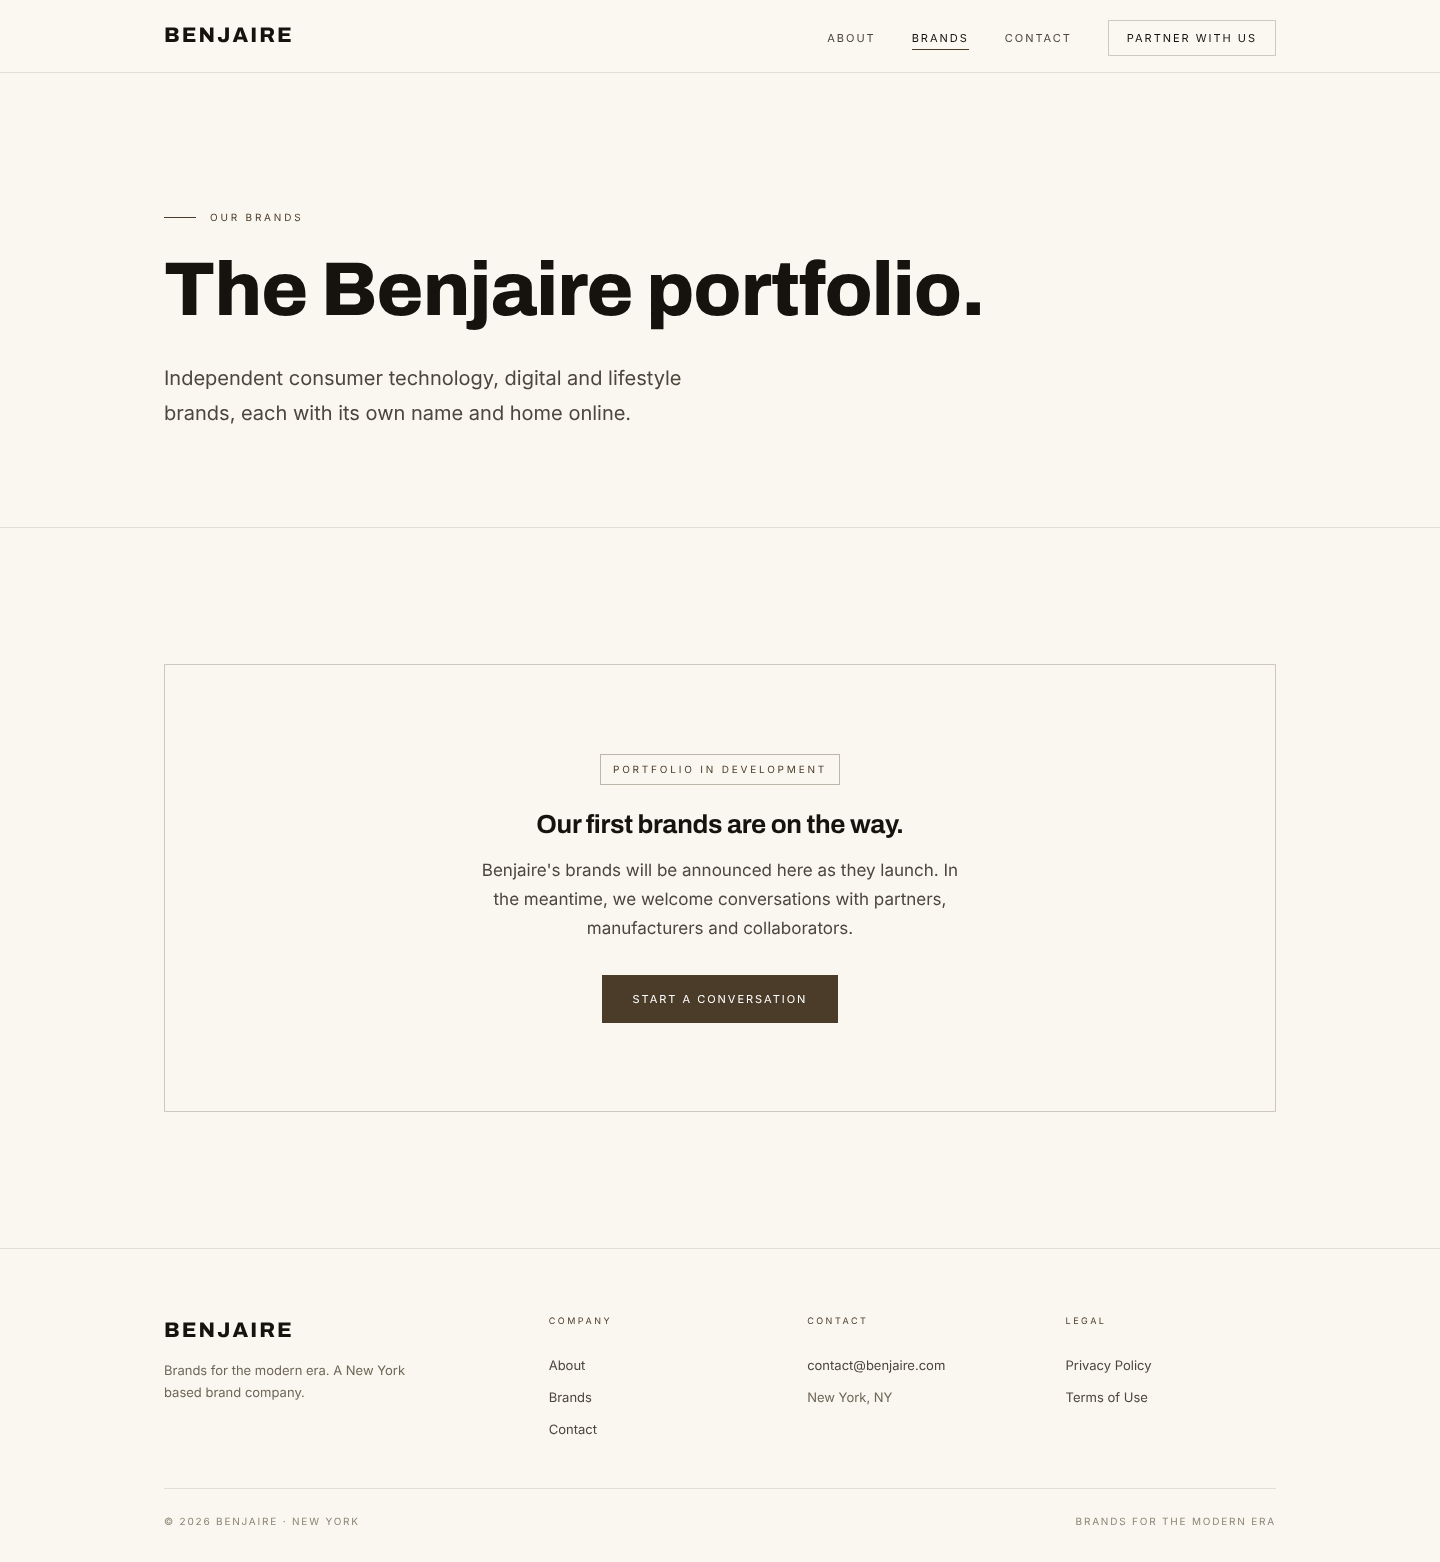
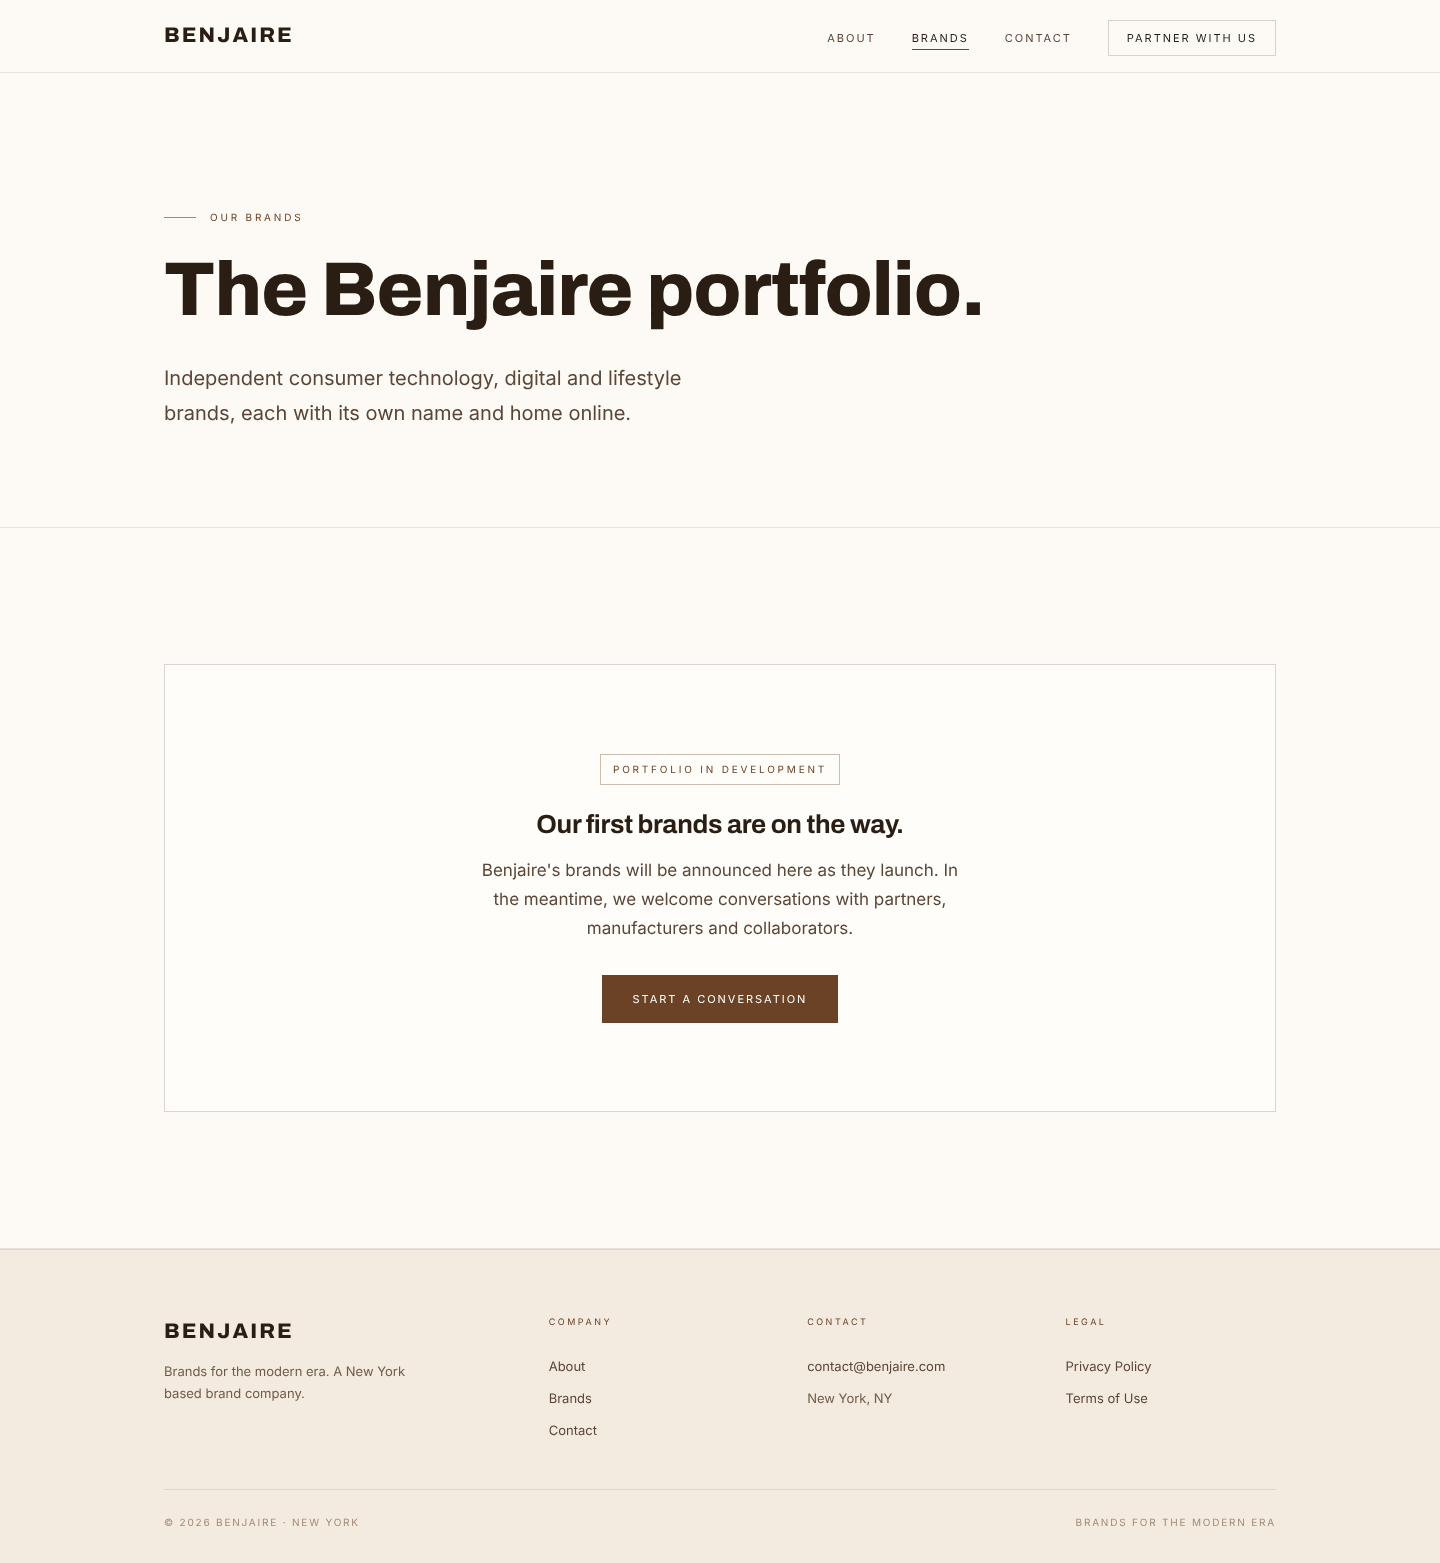
docs: shift design proposal to warm cream, beige and cocoa palette
Claude-Session: https://claude.ai/code/session_019GyusMWoQNeWaWPskL5jMU

Changed region(s): [[0.4062, 0.6146, 0.5938, 0.6761], [0.3438, 0.5224, 0.6562, 0.5839]]

diff --git a/docs/design-system.md b/docs/design-system.md
@@ -1,4 +1,4 @@
-# Benjaire Design System (v0.1, proposal)
+# Benjaire Design System (v0.2, proposal)
 
 - **Status:** Proposed for owner approval (milestone M2). Nothing here is implemented until approved.
 - **Approach:** refine and modernize the existing identity. Don't replace it.
@@ -13,7 +13,7 @@
 ## 2. What's kept (recognizable identity)
 | Element | Kept as is |
 |---|---|
-| Palette | Sand, beige, black, and white with a deep umber accent. All values unchanged. |
+| Palette family | Warm neutrals with a single brown accent (now shifted warmer; see §4) |
 | Type | Archivo (display, 500/700/800) and Inter (body, 400/500/600) |
 | Wordmark | "BENJAIRE" in Archivo 800, uppercase, 0.1em tracking |
 | Structure | Full-width hairline rules, flat surfaces, no shadows, no rounded corners |
@@ -28,7 +28,8 @@
 | Nav background uses the sand ground (was white) | One continuous surface; feels more premium |
 | A **"Partner with us"** outlined button in the nav | Gives business visitors one clear primary action |
 | Home gains "What we do", "Focus areas", the Brands section, and a "Work with Benjaire" band | Today the home page is only a hero and an empty heading |
-| Raised sand bands (`--bg-raised`) alternate sections | Hierarchy without adding new colors |
+| Beige bands (`--bg-raised`) alternate sections, and a **deep cocoa band** closes key pages | Hierarchy and a premium finish |
+| **Warmer palette** (§4): cream, beige, latte, cocoa text, saddle-brown accent, caramel rules | Owner direction 2026-10-13 |
 | A faint hairline grid behind the hero | A technology-forward hint that stays within the palette |
 | Footer gains Legal links and a tagline | Trust and compliance |
 | Form redesign: category chips, inline errors, consent, spam-protection slot | Meets PRD US-3 |
@@ -37,19 +38,23 @@
 
 ## 4. Tokens
 
-### Color (unchanged; contrast against `--bg #faf7f1`)
-| Token | Value | Use | Contrast |
+### Color (v0.2: cream, beige and cocoa palette, per owner direction 2026-10-13)
+The palette shifts warmer and browner than the original near-black/umber. It's inspired by contemporary wellness and DTC brands, but every value is Benjaire's own.
+
+| Token | Value | Use | Contrast on `--bg` |
 |---|---|---|---|
-| `--bg` | `#faf7f1` | Page ground | — |
-| `--bg-raised` | `#f0e7d5` | Alternating bands | — |
-| `--surface` | `#e6d8bf` | Tiles, logo wells | — |
-| `--fg` | `#16120d` | Headings | 18.5:1 |
-| `--fg-mid` | `#4c463c` | Body | 8.0:1 |
-| `--fg-low` | `#6e6758` | Labels | 5.0:1 |
-| `--fg-faint` | `#8d8574` | Decorative only, **never** body text | 3.3:1 |
-| `--accent` | `#4a3c28` | Buttons, links, rules | 7.5:1 |
-| `--accent-hi` | `#6b5940` | Hover | 4.9:1 |
-| New: `--danger` | `#8f2716` | Form errors | ≥ 7:1 (to be verified) |
+| `--bg` | `#fdfaf5` | Cream page ground | — |
+| `--bg-raised` | `#f4ebe0` | Beige bands, footer | — |
+| `--surface` | `#e9dccb` | Latte tiles, logo wells | — |
+| `--fg` | `#2a1d14` | Cocoa headings (replaces black) | 15.7:1 |
+| `--fg-mid` | `#5a4637` | Body text | 8.5:1 |
+| `--fg-low` | `#705b49` | Labels (≥ 4.7:1 on every surface) | 5.9:1 |
+| `--fg-faint` | `#a08b77` | Decorative only, **never** text | 3.1:1 |
+| `--accent` | `#6b4226` | Saddle brown: buttons, links, numbers | 8.3:1 (white on it: 8.6:1) |
+| `--accent-hi` | `#8a5a36` | Hover | 5.6:1 |
+| `--caramel` | `#b58357` | Decorative rules only, **never** text | 3.2:1 |
+| `--cocoa` | `#2a1d14` | Dark closing band | Cream text on it: 15.7:1 |
+| `--danger` | `#8f2716` | Form errors | 8.2:1 |
 
 ### Type scale (new)
 | Token | Size | Use |
